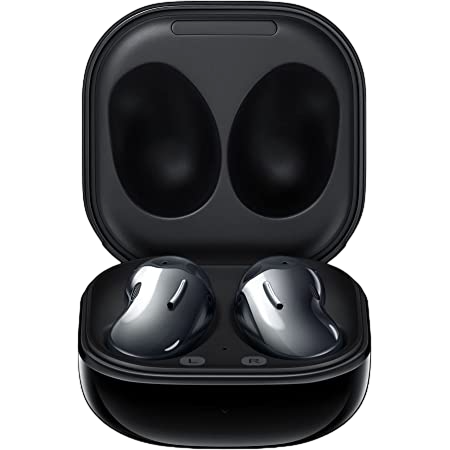
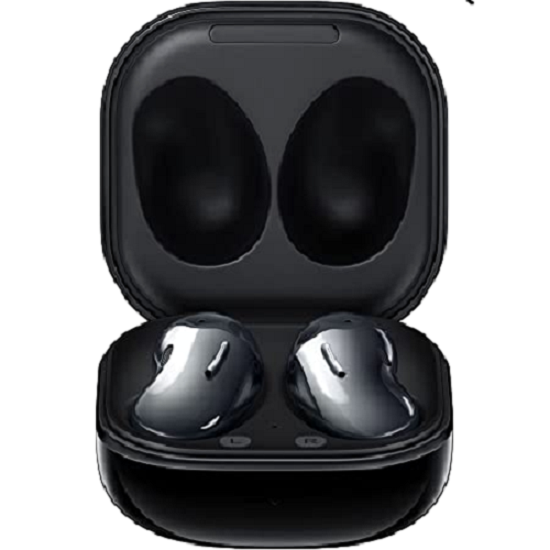
correccion imagenes

diff --git a/paginas/accesorios.html b/paginas/accesorios.html
@@ -127,7 +127,7 @@
     
 <section class="productos">
              <div class="productos-item" category="marcas-auriculares">
-                  <img src="../imagenes/SAM-BUDS-LIVE.png" width="100px" height="200px"alt="aur samsung">AURICULARES SAMSUNG BUDS
+                  <img class="imgCat" src="../imagenes/sam-aur-buds-.png" alt="aur samsung">AURICULARES SAMSUNG BUDS
                   <select class="detalle" id="floatingSelect" aria-label="Floating label select example">
                     <option selected>VER MAS</option>
                     <option value="1">40hs de bateria</option>
@@ -140,7 +140,7 @@
                 </div>
              
              <div class="productos-item" category="marcas-auriculares">
-                 <img src="../imagenes/AUR-JBL.png"width="100px" height="200px" alt="aur jbl">AURICULARES JBL
+                 <img class="imgCat" src="../imagenes/jbl-inal-sf.png"  alt="aur jbl">AURICULARES JBL
                  <select class="detalle" id="floatingSelect" aria-label="Floating label select example">
                     <option selected>VER MAS</option>
                     <option value="1">40hs de bateria</option>
@@ -154,7 +154,7 @@
                 </div>
             
             <div class="productos-item" category="marcas-auriculares">
-             <img src="../imagenes/JBL.png" width="200px" height="200px" alt="vincha jbl">AURICULARES VINCHA JBL
+             <img class="imgCat" src="../imagenes/0111323_auriculares-jbl.jpeg" alt="vincha jbl">AURICULARES VINCHA JBL T500
              <select class="detalle" id="floatingSelect" aria-label="Floating label select example">
                 <option selected>VER MAS</option>
                 <option value="1">Bateria 40h</option>
@@ -168,7 +168,7 @@
             </div>
             
             <div class="productos-item" category="marcas-smartwach">
-             <img src="../imagenes/reloj-sam.png" width="100px" height="200px" alt="reloj samsung">SMARTWACH SAMSUNG WATCH4
+             <img class="imgCat" src="../imagenes/reloj-sam.png" alt="reloj samsung">SMARTWACH SAMSUNG WATCH4
              <select class="detalle" id="floatingSelect" aria-label="Floating label select example">
                 <option selected>VER MAS</option>
                 <option value="1">1.2" SAMOLED</option>
@@ -181,7 +181,7 @@
             </div>
         
                 <div class="productos-item" category="marcas-smartwach">
-                  <img src="../imagenes/sam-fit2.png"width="330px" height="205px"  alt="reloj fit 2">SMARTWACH SAMSUNG FIT 2
+                  <img class="imgCat" src="../imagenes/sam-fit2.png"  alt="reloj fit 2">SMARTWACH SAMSUNG FIT 2
                   <select class="detalle" id="floatingSelect" aria-label="Floating label select example">
                     <option selected>VER MAS</option>
                     <option value="1">32GB Almacenamienti</option>
@@ -194,7 +194,7 @@
                 </div>
              
              <div class="productos-item" category="marcas-motorola">
-                 <img src="../imagenes/smart-moto100.png" width="200px" height="205px" alt="reloj moto">SMARTWACH MOTOROLA G100
+                 <img class="imgCat" src="../imagenes/smart-moto100.png"  alt="reloj moto">SMARTWACH MOTOROLA G100
                  <select class="detalle" id="floatingSelect" aria-label="Floating label select example">
                     <option selected>VER MAS</option>
                     <option value="1">1.3" CIRCULAR</option>

diff --git a/index.html b/index.html
@@ -87,8 +87,8 @@
         
       <div class="video">
         <p class="novedades"> NOVEDADES</p>
-       <video src="./imagenes/2023 Galaxy A34  A54 5G_ Official Film  Samsung.mp4" height="330px" autoplay="autoplay" loop="loop" muted defaultMuted playsinline  oncontextmenu="return false;"  preload="auto"  id="miVideo"></video>
-       <video src="./imagenes/Galaxy S23 Series_ Unveiling  Samsung.mp4" height="330px" autoplay="autoplay" loop="loop" muted defaultMuted playsinline  oncontextmenu="return false;"  preload="auto"  id="miVideo"></video> 
+       <video src="./imagenes/2023 Galaxy A34  A54 5G_ Official Film  Samsung.mp4"  autoplay="autoplay" loop="loop" muted defaultMuted playsinline  oncontextmenu="return false;"  preload="auto"  id="miVideo"></video>
+       <video src="./imagenes/Galaxy S23 Series_ Unveiling  Samsung.mp4"  autoplay="autoplay" loop="loop" muted defaultMuted playsinline  oncontextmenu="return false;"  preload="auto"  id="miVideo"></video> 
       </div>
     </aside>
     <section>

diff --git a/sass/main.css b/sass/main.css
@@ -582,7 +582,7 @@ input[type=checkbox] + label {
   justify-content: center;
 }
 .productos .productos-item {
-  width: 340px;
+  width: 330px;
   height: auto;
   margin-left: 5%;
   margin-top: 40px;
@@ -597,12 +597,13 @@ input[type=checkbox] + label {
   color: #531a69;
   font-weight: bold;
 }
-.productos .productos-item img {
-  width: auto;
+.productos .productos-item .imgCat {
+  width: 55%;
+  height: auto;
 }
 .productos .productos-item .detalle {
   background-color: #9743b8;
-  height: 15%;
+  height: 16%;
   width: 100%;
   text-align: center;
   font-weight: bolder;

diff --git a/sass/_pag-secundarias.scss b/sass/_pag-secundarias.scss
@@ -55,7 +55,7 @@ margin-top: 50px;
 flex-flow: wrap; 
 justify-content: center;
 .productos-item{
-  width: 340px;
+  width: 330px;
   height: auto;
   margin-left: 5%;
   margin-top: 40px;
@@ -69,14 +69,16 @@ justify-content: center;
   background-color: white;
   color: #531a69;
   font-weight: bold;   
-  & img{
-    width: auto;
+  .imgCat{
+    width: 55%;
+    height: auto;
+    
     
    
       }
  .detalle{
   background-color: #9743b8;
-  height: 15%;
+  height: 16%;
   width: 100%;
   text-align: center;
   font-weight: bolder;
